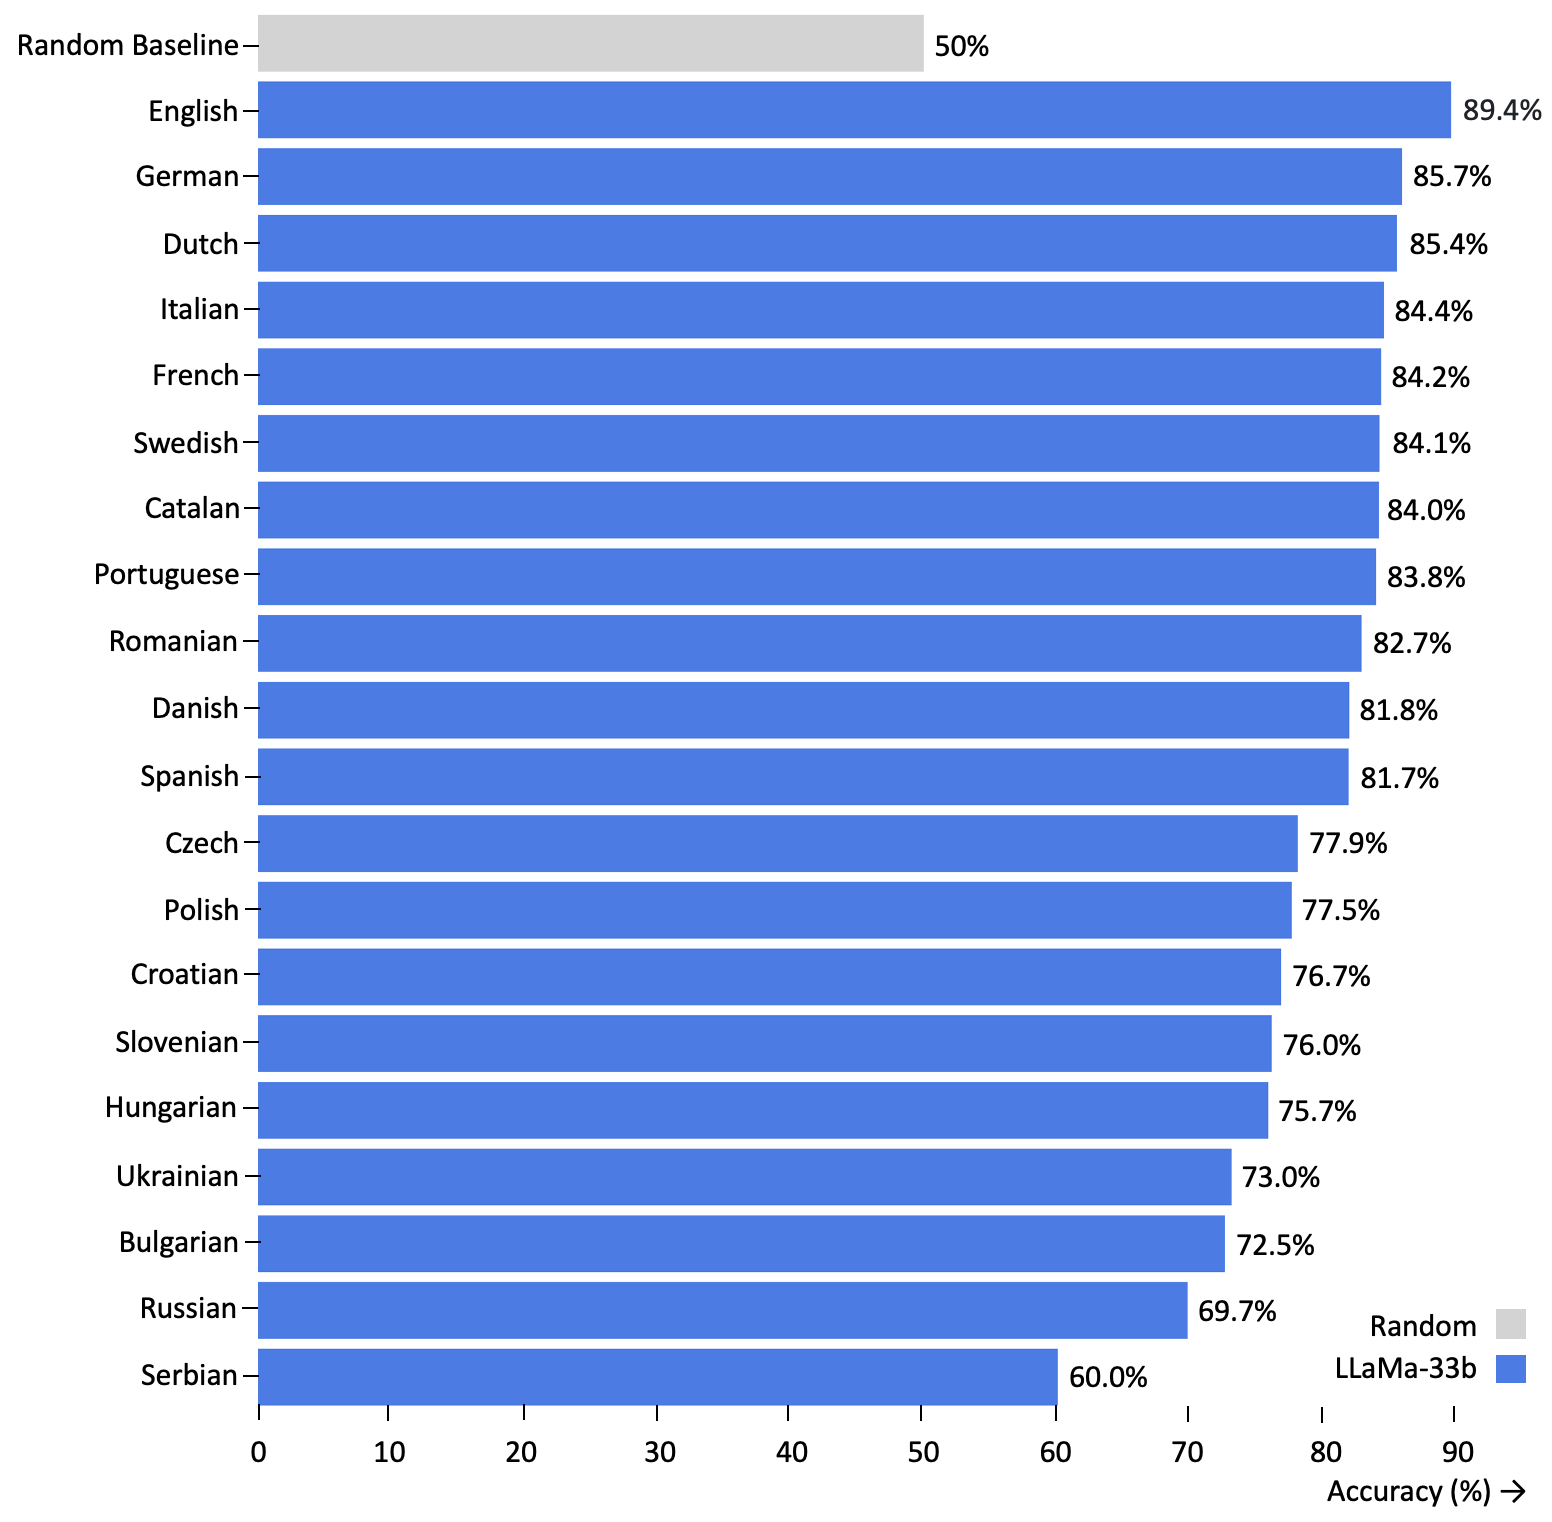
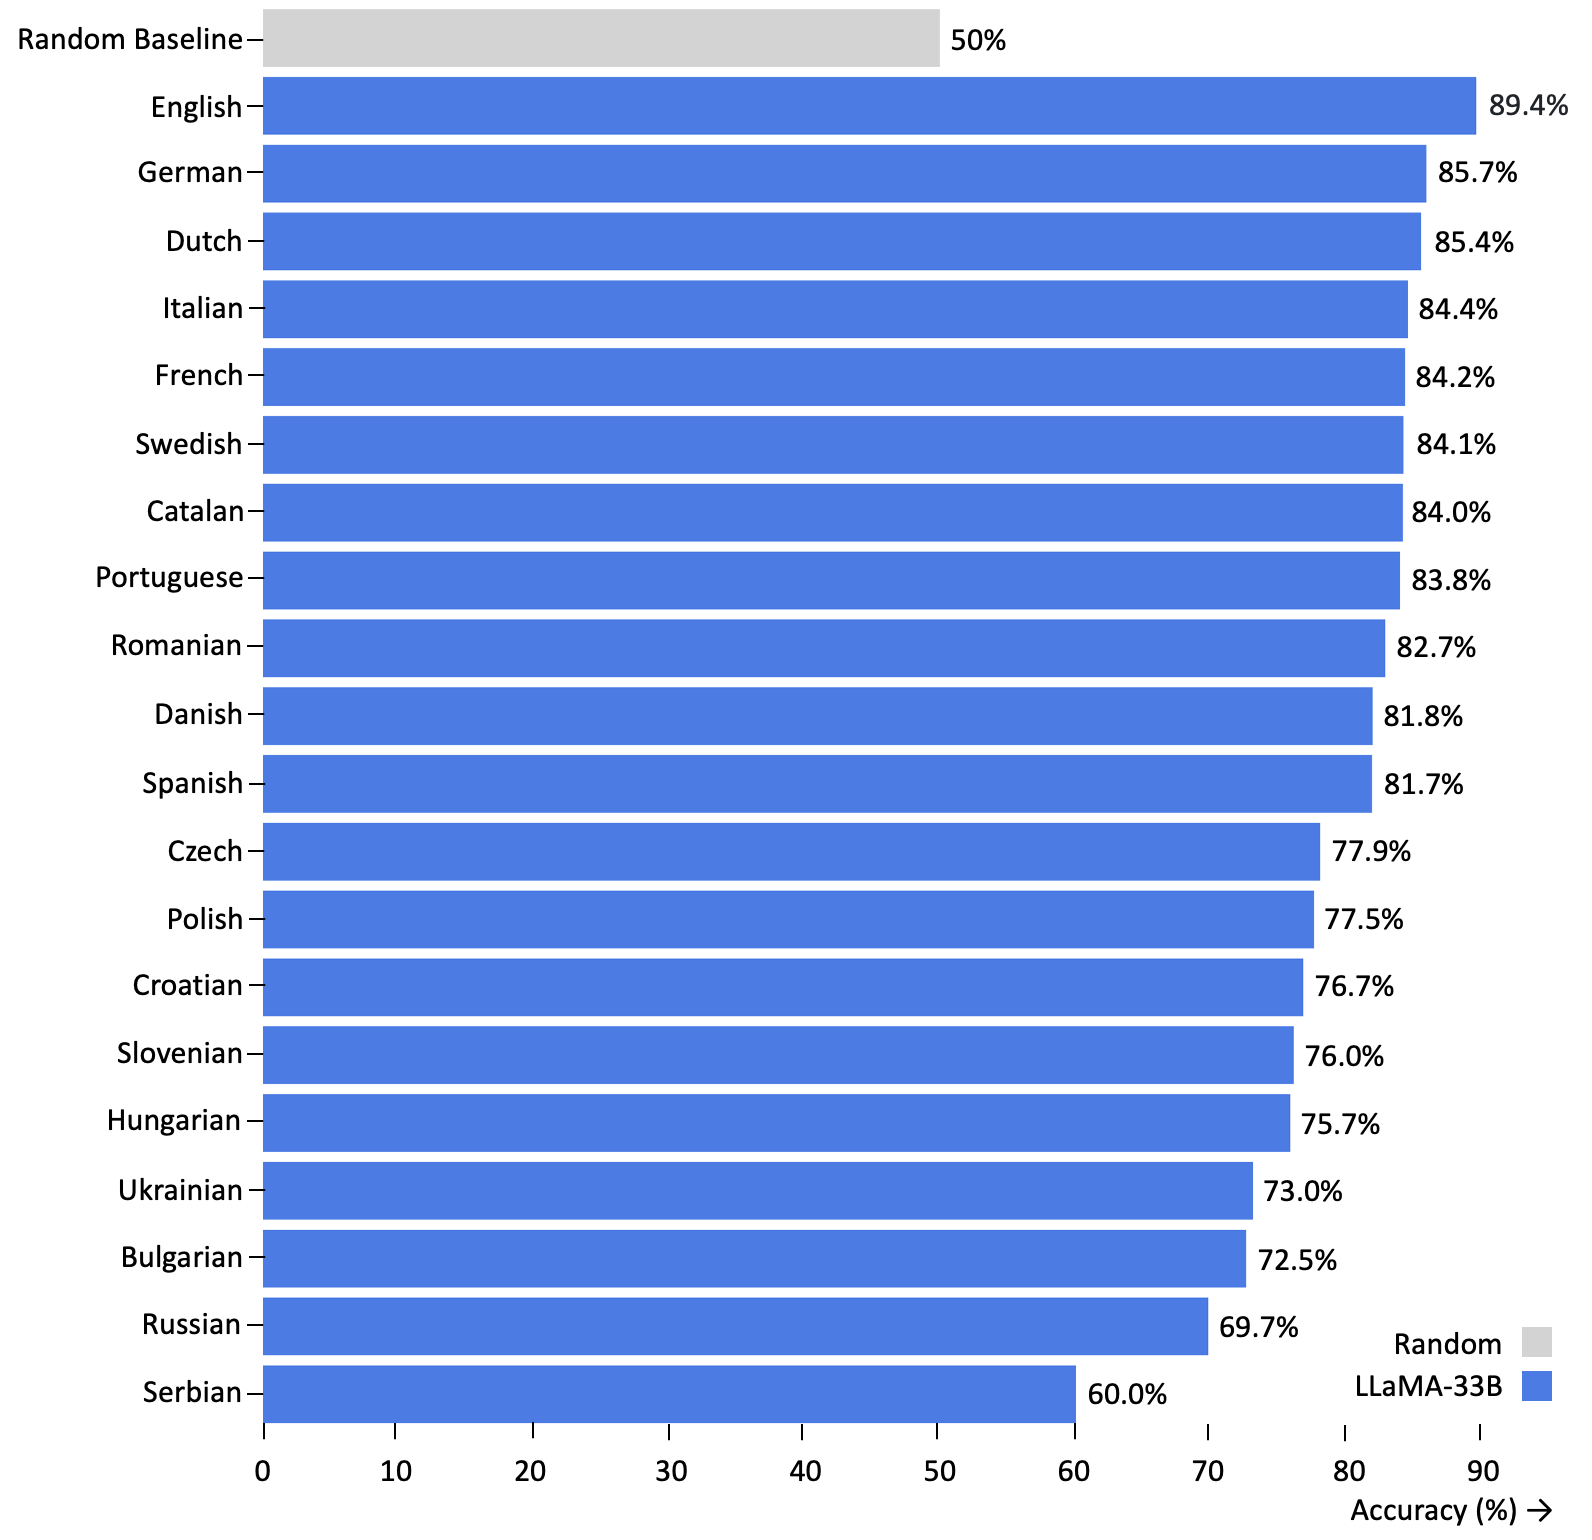
readme updated

diff --git a/README.md b/README.md
@@ -82,11 +82,11 @@ The factual associations were originally sourced from English-language Wikidata 
  
  &nbsp;
 
-### **LLaMa-33B** performance across languages
+### **LLaMA-33B** performance across languages
 
-![LLaMa test leaderboard](notebooks/viz/assets/LLaMa_h_bar_plot_final.png)
+![LLaMA test leaderboard](notebooks/viz/assets/LLaMa_h_bar_plot_final.png)
 
-**Figure 1**: LLaMa-33B test performance across languages. The model scores higher on languages written in Latin script than those written in Cyrillic script (Ukrainian, Bulgarian, Russian and Serbian). A [chi-squared test](https://github.com/daniel-furman/Polyglot-or-Not/blob/main/notebooks/error_analysis/EntitySigTesting.ipynb) confirms that the model's test performance is dependent on language script (*p* < 0.001).
+**Figure 1**: LLaMA-33B test performance across languages. The model scores higher on languages written in Latin script than those written in Cyrillic script (Ukrainian, Bulgarian, Russian and Serbian). A [chi-squared test](https://github.com/daniel-furman/Polyglot-or-Not/blob/main/notebooks/error_analysis/EntitySigTesting.ipynb) confirms that the model's test performance is dependent on language script (*p* < 0.001).
  
 ## Authors
 
@@ -118,7 +118,7 @@ Please cite this repository as follows if you use its data or code:
 
 [2]: LLaMA: Open and Efficient Foundation Language Models. Hugo Touvron, Thibaut Lavril, Gautier Izacard, Xavier Martinet, Marie-Anne Lachaux, Timothée Lacroix, Baptiste Rozière, Naman Goyal, Eric Hambro, Faisal Azhar, Aurelien Rodriguez, Armand Joulin, Edouard Grave, Guillaume Lample. https://arxiv.org/abs/2302.13971v1 (2023).
 
-* LLaMa weights were accessed with the approval of Meta AI and used in accordance with the License (see [link](https://docs.google.com/forms/d/e/1FAIpQLSfqNECQnMkycAp2jP4Z9TFX0cGR4uf7b_fBxjY_OjhJILlKGA/viewform) for more details).  
+* LLaMA weights were accessed with the approval of Meta AI and used in accordance with the License (see [link](https://docs.google.com/forms/d/e/1FAIpQLSfqNECQnMkycAp2jP4Z9TFX0cGR4uf7b_fBxjY_OjhJILlKGA/viewform) for more details).  
 
 [3] T-REx: A Large Scale Alignment of Natural Language with Knowledge Base Triples. ElSahar, Hady, Pavlos Vougiouklis, Arslen Remaci, Christophe Gravier, Jonathon S. Hare, Frédérique Laforest and Elena Paslaru Bontas Simperl. International Conference on Language Resources and Evaluation. [Link][trex] (2018).
 
